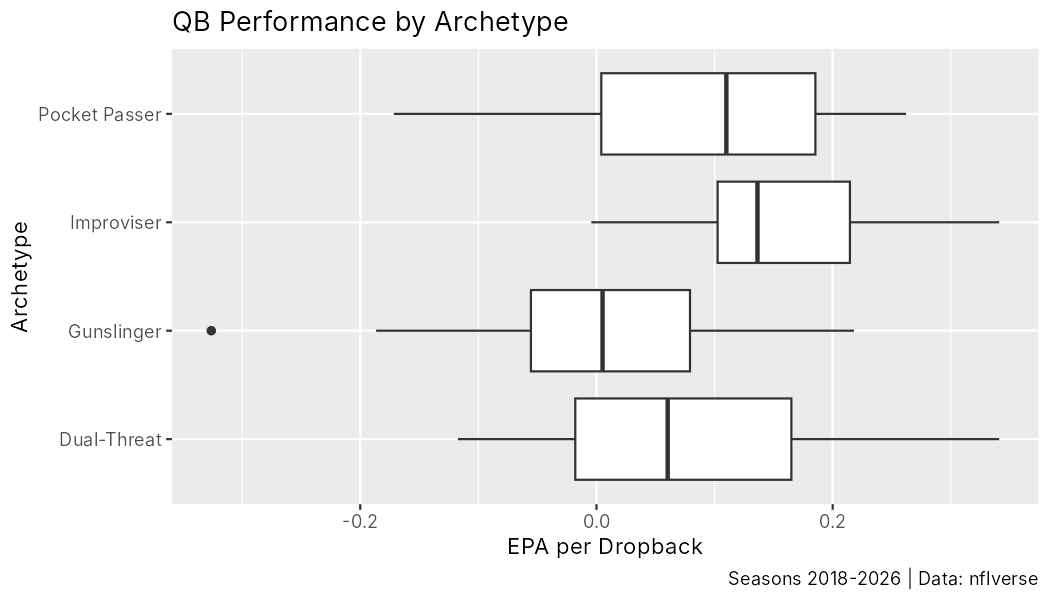
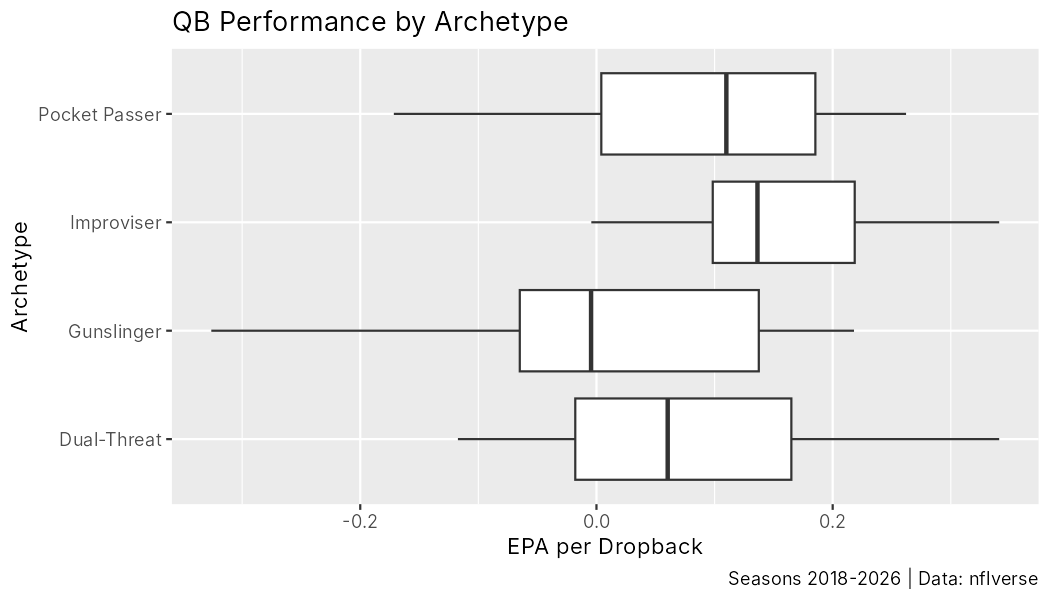
Standardize archetype cutoffs and drop NGS week 0 rows
- Drop the Next Gen Stats week 0 (season total) rows before averaging
- Compute every percentile cutoff after filtering to the position pool
- Use the top 10% for every archetype (was 5%/10%/15% for WRs)
- Update README results and method notes

Claude-Session: https://claude.ai/code/session_01X3z4KhKbwJUko4xzGPWYQH

diff --git a/README.md b/README.md
@@ -6,7 +6,7 @@
 
 ## How it works
 
-For each position we pick a few measurable traits, standardize them as z-scores across qualifying player-seasons, combine them into an archetype score, and tag the **top 10%** of player-seasons (top 5% or 15% where noted). A player can hold more than one archetype in the same season.
+For each position we pick a few measurable traits, standardize them as z-scores across qualifying player-seasons, combine them into an archetype score, and tag the **top 10%** of player-seasons. Every cutoff is calculated within the qualifying pool for that position (for example, WRs with 100+ targets), so each archetype covers the same share of its pool. A player can hold more than one archetype in the same season.
 
 ### Quarterbacks (8+ games, 288+ dropbacks where applicable)
 
@@ -29,9 +29,9 @@ For each position we pick a few measurable traits, standardize them as z-scores 
 
 | Archetype | Defined by |
 |---|---|
-| Contested Catcher | High catch rate despite low separation (top 5%) |
+| Contested Catcher | High catch rate despite low separation |
 | Deep Threat | Highest average intended air yards |
-| Route Runner | Most average separation (top 15%) |
+| Route Runner | Most average separation |
 
 ## Results so far
 
@@ -39,10 +39,10 @@ For each position we pick a few measurable traits, standardize them as z-scores 
 
 | Archetype | QB-seasons | Mean EPA | Median EPA |
 |---|---|---|---|
-| Improviser | 30 | 0.154 | 0.136 |
+| Improviser | 28 | 0.155 | 0.136 |
 | Pocket Passer | 27 | 0.086 | 0.110 |
 | Dual-Threat | 28 | 0.083 | 0.060 |
-| Gunslinger | 30 | 0.007 | 0.005 |
+| Gunslinger | 28 | 0.011 | -0.005 |
 
 ![QB EPA by archetype](output/figures/qb_epa_by_archetype.png)
 
@@ -50,7 +50,7 @@ For each position we pick a few measurable traits, standardize them as z-scores 
 
 | Archetype | RB-seasons | Mean EPA | Median EPA | Touch-weighted EPA |
 |---|---|---|---|---|
-| Power Back | 26 | -0.007 | -0.007 | 0.002 |
+| Power Back | 50 | -0.009 | -0.011 | 0.004 |
 | Elusive Back | 50 | -0.021 | -0.031 | -0.025 |
 | Receiving Back | 50 | -0.028 | -0.012 | -0.023 |
 
@@ -60,9 +60,9 @@ For each position we pick a few measurable traits, standardize them as z-scores 
 
 | Archetype | WR-seasons | Mean EPA | Median EPA | Target-weighted EPA |
 |---|---|---|---|---|
-| Contested Catcher | 31 | 0.497 | 0.525 | 0.493 |
-| Deep Threat | 50 | 0.293 | 0.320 | 0.299 |
-| Route Runner | 18 | 0.258 | 0.259 | 0.277 |
+| Contested Catcher | 23 | 0.460 | 0.462 | 0.465 |
+| Deep Threat | 23 | 0.359 | 0.370 | 0.363 |
+| Route Runner | 23 | 0.286 | 0.297 | 0.298 |
 
 ![WR EPA by archetype](output/figures/wr_epa_by_archetype.png)
 
@@ -98,15 +98,11 @@ run_all.R               runs everything, saves CSVs and charts
 output/                 results (CSV) and figures (PNG)
 ```
 
-## Open questions
+## Method notes
 
-Methodology choices still under discussion; each is marked `NOTE` in the code:
-
-1. **Next Gen Stats week 0 rows.** NGS includes a week 0 row per player that is the season total. Season averages currently include it alongside weekly rows, and `games_played` counts it as a game. Using the week 0 row directly would be cleaner.
-2. **Percentile cutoffs computed before position filters.** Power Backs and Deep Threats take the 90th percentile across all players (including QBs, TEs and low-volume players) before keeping only RBs or WRs, so fewer players qualify than the "top 10%" label suggests.
-3. **Different cutoffs by archetype.** Contested Catcher uses the top 5% and Route Runner the top 15%; everything else uses the top 10%.
-4. **"Power Back" uses 7 or fewer yards to go**, which captures many standard downs, not just short-yardage situations.
-5. **Gadget QBs** (the "Taysom Hill problem") can still qualify as Dual-Threat if they meet the passing threshold.
+- **Next Gen Stats:** the week 0 row (a season total) is dropped, so season averages and games played use weekly data only.
+- **Open question:** "Power Back" uses carries with 7 or fewer yards to go, which captures many standard downs, not just short-yardage situations.
+- **Open question:** gadget QBs (the "Taysom Hill problem") can still qualify as Dual-Threat if they meet the passing threshold.
 
 ## Next steps
 
